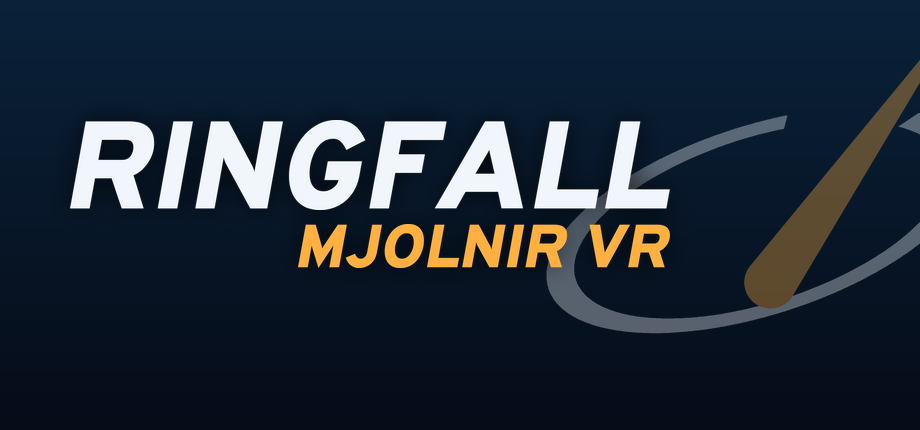
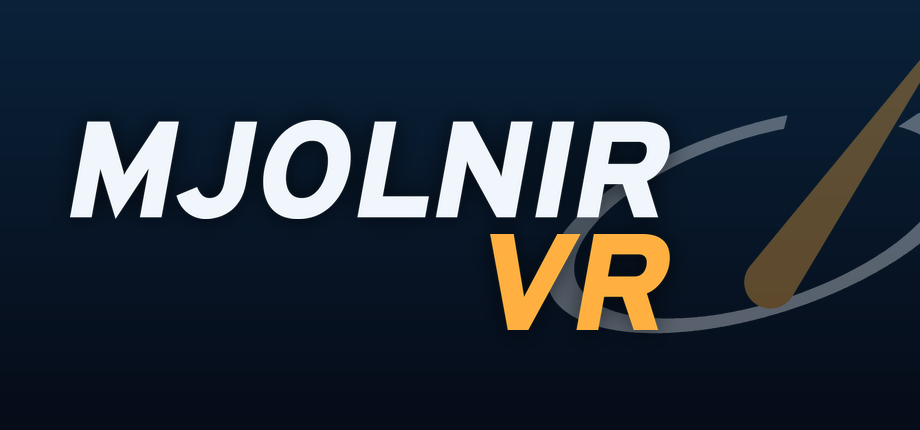
Rename the mod to Mjolnir VR
"Ringfall" is another game's name. Every name players see is now
"Mjolnir VR": the app, the Steam Frame installer and shortcut, the logo
(tools/mjolnir_art.py, was ringfall_art.py), the release's title and
assets (MjolnirVR.apk, mjolnir-vr-android-*.zip,
mjolnir-vr-steam-frame.zip, Install-Mjolnir-VR.desktop), the docs. The
updaters look for Cesarus85/mjolnir-vr, the repository's new name
(GitHub forwards the old one).

Builds 302 to 313 keep working: every release also carries its assets
under their old names, which those builds' updaters and the links
already shared ask for. Kept as they were: the app id, the signing key's
alias, the Steam Frame's ~/Documents/RingfallMjolnirVR and the file
names inside its bundle (an installed game's Steam shortcut starts the
launcher there). The Frame installer now also refreshes the library
pictures of a shortcut that is there already, and says how to rename a
shortcut still called "Ringfall: Mjolnir VR".

Changed region(s): [[0.0609, 0.2721, 0.7304, 0.786]]

diff --git a/tools/steam_frame_bundle.py b/tools/steam_frame_bundle.py
@@ -5,14 +5,14 @@ The Steam Frame's installer as release assets (port/android/STEAM_FRAME.md):
     python3 tools/steam_frame_bundle.py <apk> <output folder> <owner/repository>
 
 writes into the output folder
-- ringfall-mjolnir-vr-steam-frame.zip: the installer (port/android/steam_frame_install.sh,
+- mjolnir-vr-steam-frame.zip: the installer (port/android/steam_frame_install.sh,
   as install.sh), the APK (RingfallMjolnirVR.apk), the launcher
   (steam_frame_launch.sh, as ringfall-mjolnir-vr.sh, which updates the game
   from the repository named), the build's number (build.txt: the workflow's
   run number, HALO_BUILD_NUMBER or GITHUB_RUN_NUMBER; 0, which never
   updates, without one), the disc image reader (steam_frame_xiso.py) and
   the library pictures (grid/);
-- Install-Ringfall-Mjolnir-VR.desktop (port/android/steam_frame_installer.desktop): what
+- Install-Mjolnir-VR.desktop (port/android/steam_frame_installer.desktop): what
   the player downloads and opens in Desktop Mode; it fetches the latest
   release's zip from the repository named.
 """
@@ -44,7 +44,7 @@ def main():
     build = os.environ.get("HALO_BUILD_NUMBER") or os.environ.get("GITHUB_RUN_NUMBER") or "0"
     if not build.isdigit():
         build = "0"
-    bundle = output / "ringfall-mjolnir-vr-steam-frame.zip"
+    bundle = output / "mjolnir-vr-steam-frame.zip"
     with zipfile.ZipFile(bundle, "w", zipfile.ZIP_DEFLATED) as archive:
         for path, name, mode in files:
             info = zipfile.ZipInfo.from_file(path, name)
@@ -60,7 +60,7 @@ def main():
     print(f"{bundle.relative_to(Path.cwd()) if bundle.is_relative_to(Path.cwd()) else bundle}")
 
     desktop = (ANDROID / "steam_frame_installer.desktop").read_text().replace("@REPOSITORY@", repository)
-    installer = output / "Install-Ringfall-Mjolnir-VR.desktop"
+    installer = output / "Install-Mjolnir-VR.desktop"
     installer.write_text(desktop)
     installer.chmod(0o755)
     print(installer)

diff --git a/port/android/app/src/main/java/com/halo/decomp/Updater.java b/port/android/app/src/main/java/com/halo/decomp/Updater.java
@@ -36,7 +36,7 @@ import java.util.zip.ZipInputStream;
  * the latest release when it starts, on a thread of its own, and if it is
  * newer asks the player whether to update:
  *
- * - Yes: the release's app (ringfall-mjolnir-vr-android-release.zip or
+ * - Yes: the release's app (mjolnir-vr-android-release.zip or
  *   -debug.zip) is
  *   downloaded and handed to Android's package installer, which replaces the
  *   game (closing it) and offers to open the new version.
@@ -53,8 +53,8 @@ import java.util.zip.ZipInputStream;
 final class Updater {
     /* the VR port's own releases: the original's, made without VR, must
        never replace it (they share the package name) */
-    private static final String APP_NAME = "Ringfall: Mjolnir VR";
-    private static final String REPOSITORY = "Cesarus85/ringfall-mjolnir-vr";
+    private static final String APP_NAME = "Mjolnir VR";
+    private static final String REPOSITORY = "Cesarus85/mjolnir-vr";
     private static final String USER_AGENT = "halo-ce-universal-updater";
     private static final int TIMEOUT_MILLISECONDS = 20000;
     /** the most a download (a release's zip, about 35 MB) or the app in it may be */
@@ -240,7 +240,7 @@ final class Updater {
     /* ---------- updating */
 
     private static void update(Activity activity, int latest) {
-        String asset = "ringfall-mjolnir-vr-android-" + (BuildConfig.DEBUG ? "debug" : "release") + ".zip";
+        String asset = "mjolnir-vr-android-" + (BuildConfig.DEBUG ? "debug" : "release") + ".zip";
         File directory = new File(activity.getCacheDir(), UpdateProvider.DIRECTORY);
         LinearLayout layout = new LinearLayout(activity);
         TextView status = new TextView(activity);

diff --git a/tools/mjolnir_art.py b/tools/mjolnir_art.py
@@ -1,9 +1,9 @@
 #!/usr/bin/env python3
 """
-Ringfall: Mjolnir VR's pictures, drawn from nothing but shapes and the
+Mjolnir VR's pictures, drawn from nothing but shapes and the
 port's Overpass font (port/assets/fonts, SIL Open Font License):
 
-    python3 tools/ringfall_art.py
+    python3 tools/mjolnir_art.py
 
 writes
 - port/android/art/android-icon.png, the launcher icon's artwork (then run
@@ -99,11 +99,11 @@ def italic_text(text, height, fill):
 
 
 def logo(width):
-    """"RINGFALL" over "MJOLNIR VR", as wide as asked, transparent"""
-    title = italic_text("RINGFALL", 200, LIGHT)
+    """"MJOLNIR" over "VR", as wide as asked, transparent"""
+    title = italic_text("MJOLNIR", 200, LIGHT)
     title = title.resize((width, int(title.height * width / title.width)), Image.LANCZOS)
-    subtitle = italic_text("MJOLNIR VR", 200, ACCENT)
-    sub_width = int(width * 0.62)
+    subtitle = italic_text("VR", 200, ACCENT)
+    sub_width = int(width * 0.30)
     subtitle = subtitle.resize((sub_width, int(subtitle.height * sub_width / subtitle.width)), Image.LANCZOS)
     gap = int(title.height * 0.16)
     image = Image.new("RGBA", (width, title.height + gap + subtitle.height), (0, 0, 0, 0))

diff --git a/port/android/host/host_xr.c b/port/android/host/host_xr.c
@@ -1256,7 +1256,7 @@ with vr.log_performance: host_main.c) */
 	android.applicationVM = machine;
 	android.applicationActivity = activity;
 	instance.next = &android;
-	strcpy(instance.applicationInfo.applicationName, "Ringfall Mjolnir VR");
+	strcpy(instance.applicationInfo.applicationName, "Mjolnir VR");
 	instance.applicationInfo.applicationVersion = 1;
 	strcpy(instance.applicationInfo.engineName, "halo-ce-universal");
 	instance.applicationInfo.engineVersion = 1;
@@ -2275,7 +2275,7 @@ void host_xr_test(void)
 	SDL_GL_SetAttribute(SDL_GL_CONTEXT_PROFILE_MASK, SDL_GL_CONTEXT_PROFILE_ES);
 	SDL_GL_SetAttribute(SDL_GL_CONTEXT_MAJOR_VERSION, 3);
 	SDL_GL_SetAttribute(SDL_GL_CONTEXT_MINOR_VERSION, 2);
-	window = SDL_CreateWindow("Ringfall: Mjolnir VR", 640, 480, SDL_WINDOW_OPENGL | SDL_WINDOW_FULLSCREEN);
+	window = SDL_CreateWindow("Mjolnir VR", 640, 480, SDL_WINDOW_OPENGL | SDL_WINDOW_FULLSCREEN);
 	context = window ? SDL_GL_CreateContext(window) : NULL;
 	if (!context || !SDL_GL_MakeCurrent(window, context))
 		host_fatal("VR test: no OpenGL ES context: %s", SDL_GetError());

diff --git a/port/android/steam_frame_xiso.py b/port/android/steam_frame_xiso.py
@@ -42,7 +42,7 @@ name that no file before it had (ignoring case).
 
 A European disc in two languages (Spanish and Italian) has no maps folder
 but one for each, maps_es and maps_it: the one for the language asked for
-(RINGFALL_LANGUAGE, else the system's) is taken, else English's, else the
+(MJOLNIR_LANGUAGE, else the system's) is taken, else English's, else the
 first, and its language written to maps/language.txt, which the game takes
 as the Xbox's language while game.language is unset.
 """
@@ -161,7 +161,7 @@ def choose_maps(folders):
         if folder[0].lower() == "maps":
             return folder, None
     languages = [(maps_language(folder[0]), folder) for folder in folders if maps_language(folder[0])]
-    wanted = (os.environ.get("RINGFALL_LANGUAGE") or os.environ.get("LC_ALL") or
+    wanted = (os.environ.get("MJOLNIR_LANGUAGE") or os.environ.get("LC_ALL") or
         os.environ.get("LC_MESSAGES") or os.environ.get("LANG") or "")[:2].lower()
     for preferred in (wanted, "en"):
         for language, folder in languages:

diff --git a/port/android/host/host_main.c b/port/android/host/host_main.c
@@ -65,7 +65,7 @@ void host_fatal(const char *format, ...)
 	vsnprintf(message, sizeof(message), format, arguments);
 	va_end(arguments);
 	__android_log_write(ANDROID_LOG_FATAL, "halo", message);
-	SDL_ShowSimpleMessageBox(SDL_MESSAGEBOX_ERROR, "Ringfall: Mjolnir VR", message, NULL);
+	SDL_ShowSimpleMessageBox(SDL_MESSAGEBOX_ERROR, "Mjolnir VR", message, NULL);
 	_exit(1);
 }
 
@@ -540,7 +540,7 @@ int main(int argc, char *argv[])
 {
 	(void)argc;
 	(void)argv;
-	host_logf(HOST_LOG_INFO, "Ringfall: Mjolnir VR starting");
+	host_logf(HOST_LOG_INFO, "Mjolnir VR starting");
 	host_install_signal_handlers();
 	if (host_native_thread_create(game_main, NULL, MAIN_STACK_SIZE) != 0)
 		host_fatal("cannot start the game thread");

diff --git a/port/linux/src/port_config.c b/port/linux/src/port_config.c
@@ -648,7 +648,7 @@ static const struct config_setting config_settings[] =
 		"as CUSTOM SINGLEPLAYER and CUSTOM MULTIPLAYER. Their tags are checked\n"
 		"as the game's own maps' are before they run; false refuses them\n"
 		"(docs/custom_edition_caches.md)." },
-	/* (the desktop's local bots, bots.c; Ringfall's host bots have their own
+	/* (the desktop's local bots, bots.c; Mjolnir VR's host bots have their own
 	bots.count and bots.skill, Android's, below: host_bots.c) */
 	{ "bots.count", _config_integer, "0", "HALO_BOTS", _environment_value, _platform_desktop,
 		"Computer players (bots) in a local (split screen) Slayer game: 0 to 15\n"

diff --git a/port/android/app/src/main/java/com/halo/decomp/XisoExtractor.java b/port/android/app/src/main/java/com/halo/decomp/XisoExtractor.java
@@ -153,7 +153,7 @@ final class XisoExtractor {
                 break;
             }
         }
-        // (Ringfall: a European disc in two languages, Spanish and Italian,
+        // (Mjolnir VR: a European disc in two languages, Spanish and Italian,
         // has no maps folder but one for each, maps_es and maps_it: the
         // device's language's is taken, else English's, else the first, and
         // its language written to maps/language.txt, which the game asks the

diff --git a/port/linux/src/hud_hires.c b/port/linux/src/hud_hires.c
@@ -564,7 +564,7 @@ unsigned int hud_hires_png_texture(const void *png, unsigned long size, unsigned
 	return png_pixels_texture(pixels, width, height, levels);
 }
 
-/* (port, Ringfall: the same in two steps, the decode on any thread:
+/* (port, Mjolnir VR: the same in two steps, the decode on any thread:
 menu_files.c's menu pictures) */
 unsigned char *hud_hires_png_pixels(const void *png, unsigned long size, unsigned long *width, unsigned long *height)
 {

diff --git a/port/android/app/src/main/java/com/halo/decomp/LauncherActivity.java b/port/android/app/src/main/java/com/halo/decomp/LauncherActivity.java
@@ -147,7 +147,7 @@ public class LauncherActivity extends Activity {
         layout.setBackgroundColor(Color.rgb(12, 16, 20));
 
         TextView title = new TextView(this);
-        title.setText("Ringfall: Mjolnir VR needs game data");
+        title.setText("Mjolnir VR needs game data");
         title.setTextColor(Color.WHITE);
         title.setTextSize(TypedValue.COMPLEX_UNIT_SP, 24);
         title.setGravity(Gravity.CENTER);

diff --git a/port/linux/src/d3d8_gl.c b/port/linux/src/d3d8_gl.c
@@ -2290,7 +2290,7 @@ static void hdr_read(void)
 	exposure = config_real("display.hdr_exposure");
 	wanted = config_boolean("display.hdr");
 #ifdef HALO_ANDROID
-	/* (port, Ringfall: never in VR, whose eyes' pictures go to the headset
+	/* (port, Mjolnir VR: never in VR, whose eyes' pictures go to the headset
 	as they are, and whose GPU time is short already) */
 	if (halo_vr_active())
 		wanted = FALSE;

diff --git a/port/linux/src/updater.c b/port/linux/src/updater.c
@@ -47,7 +47,7 @@ update.h's: posix_update.c on Linux, win32_update.c on Windows.
 #endif
 
 /* the VR port's own releases (the original's must not replace it) */
-#define UPDATE_REPOSITORY "Cesarus85/ringfall-mjolnir-vr"
+#define UPDATE_REPOSITORY "Cesarus85/mjolnir-vr"
 #ifdef _WIN32
 #define UPDATE_PLATFORM "windows"
 #define PATH_SEPARATOR "\\"
